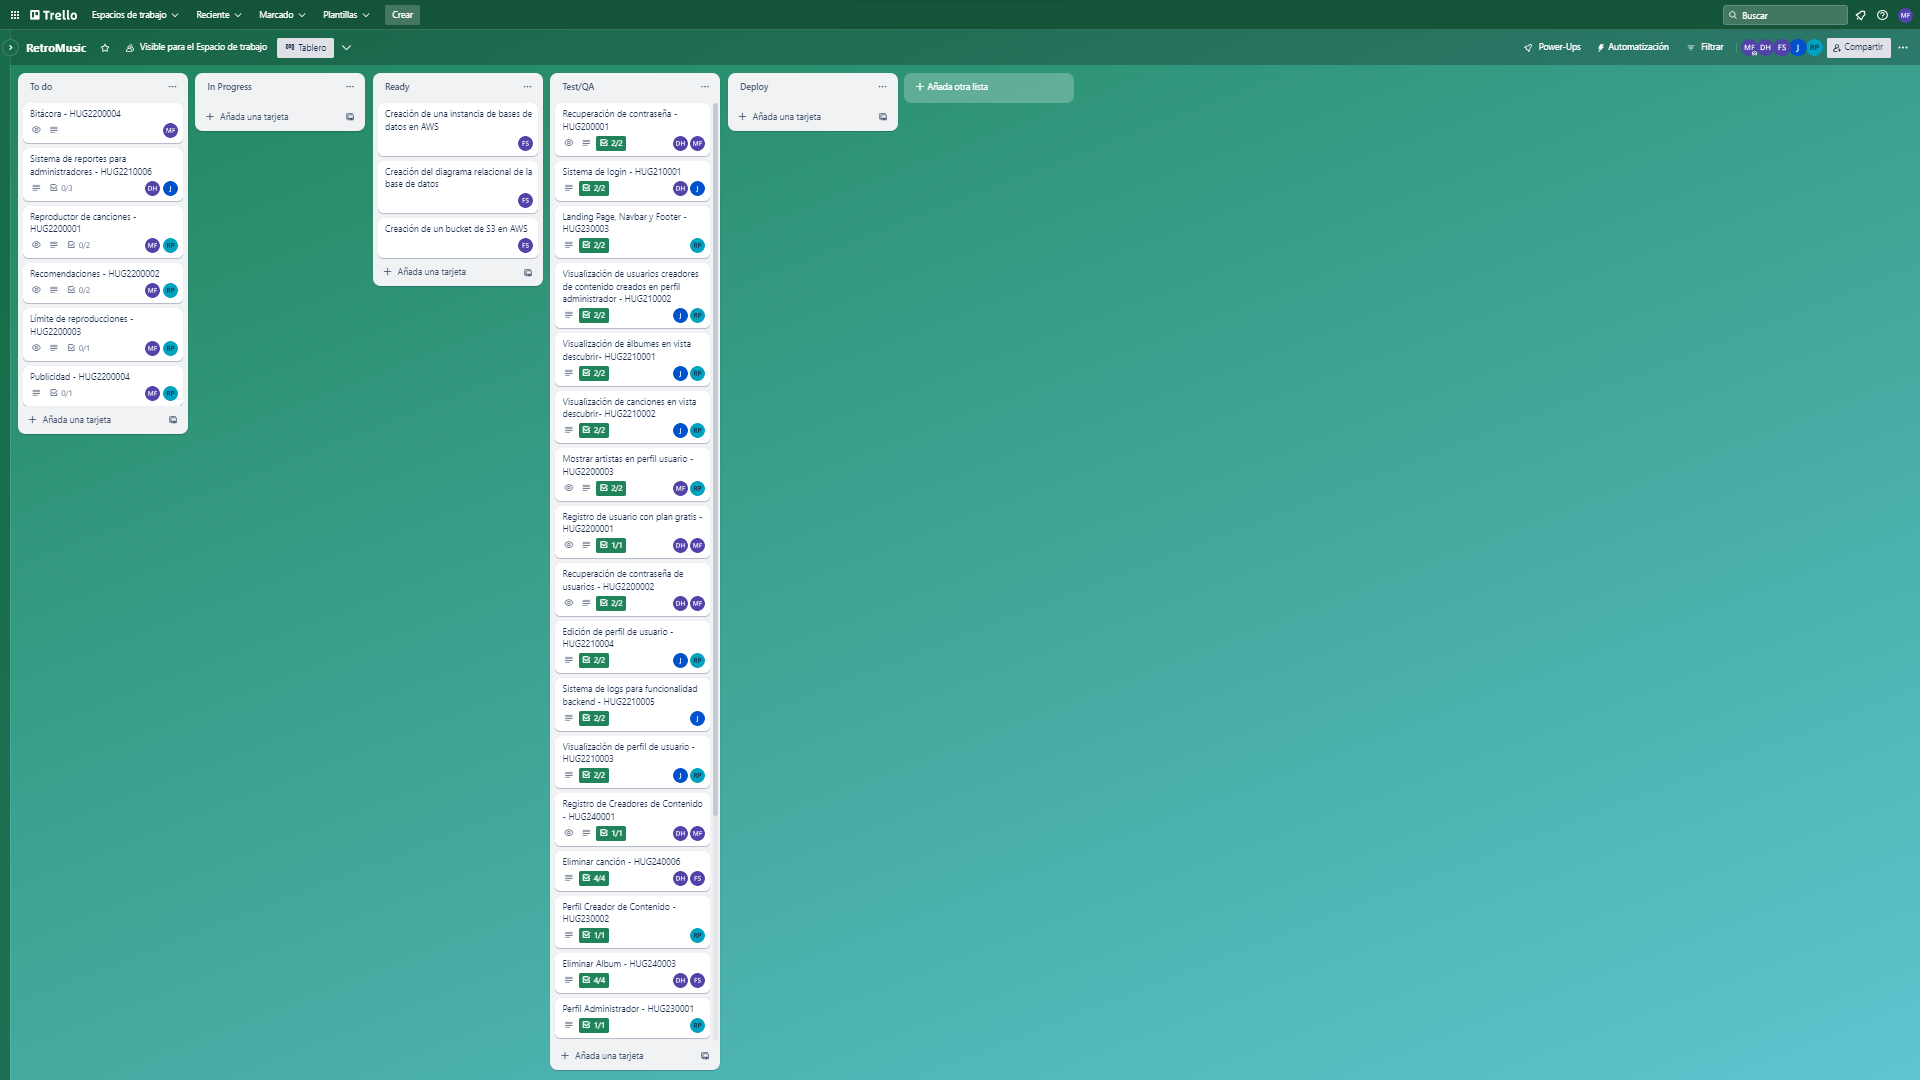
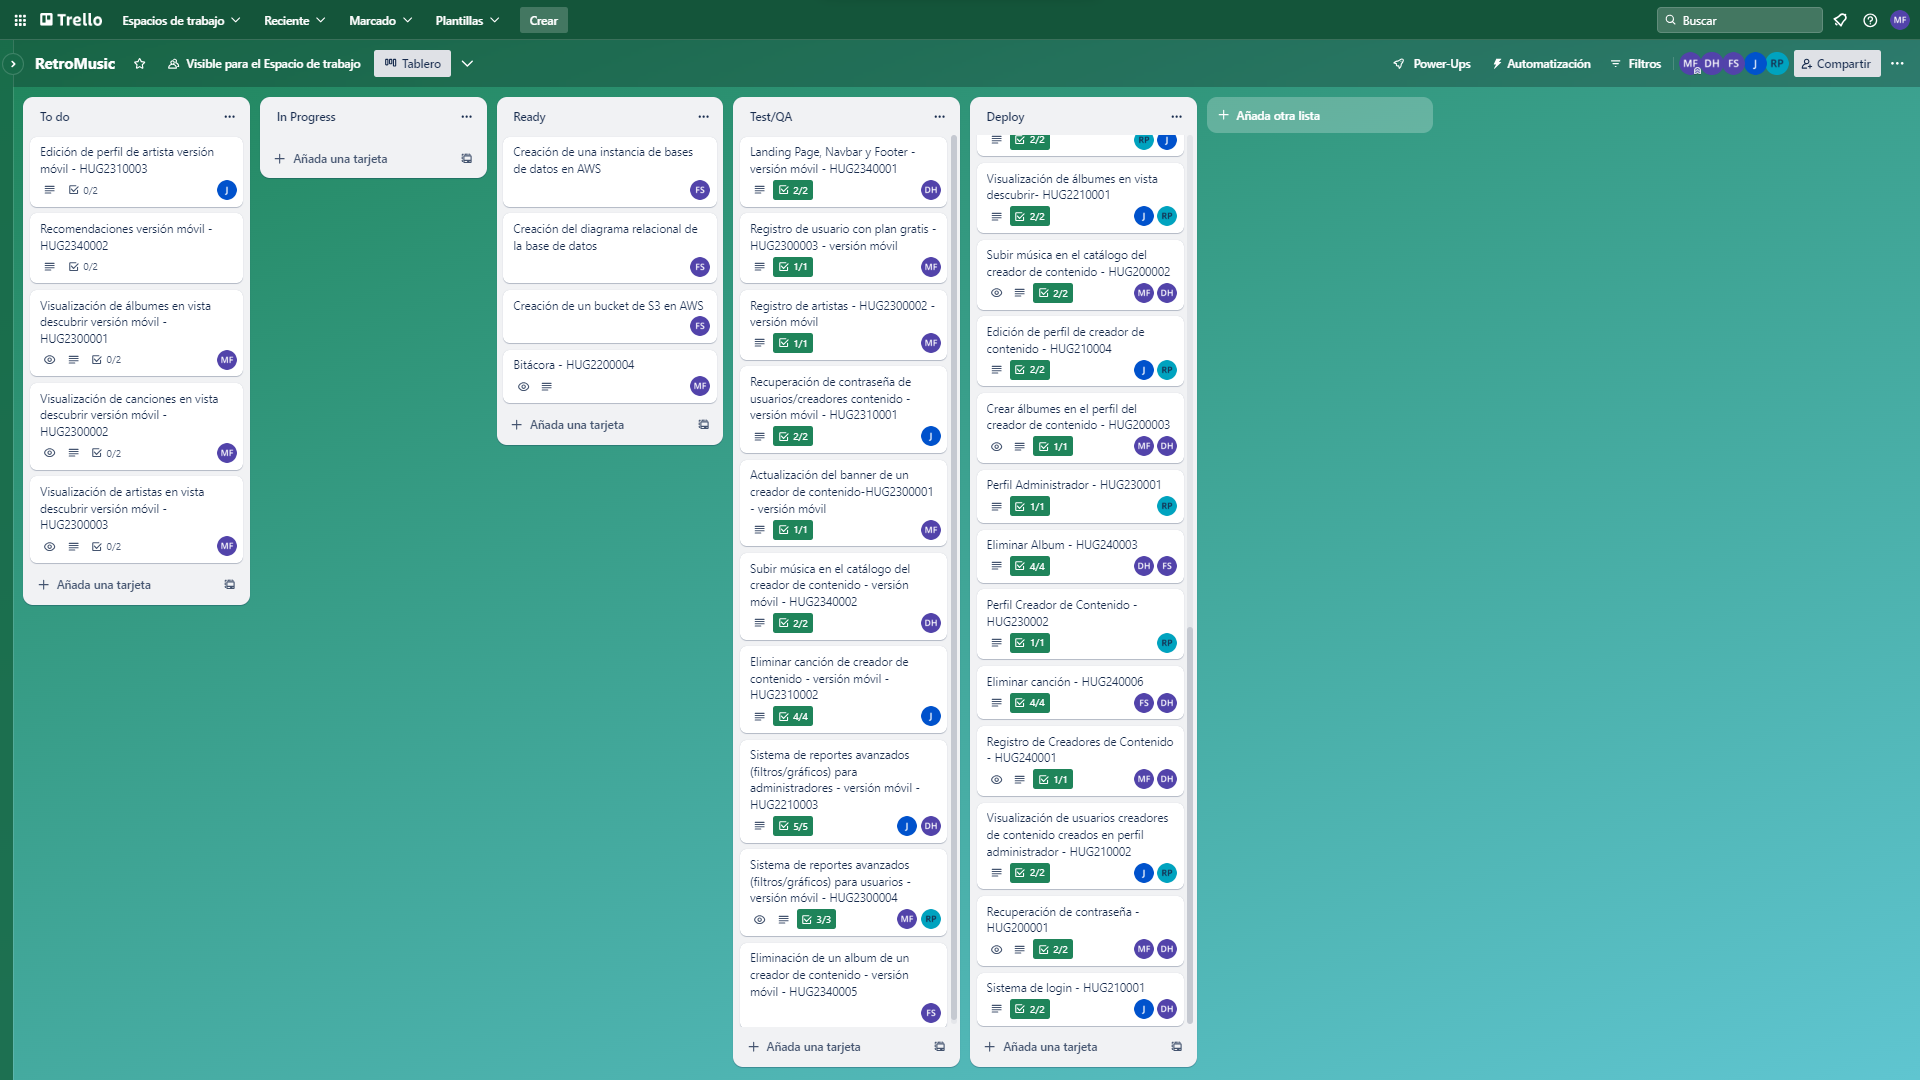
Added sprint reports and cypress documentation
-Added sprint 1 y 2 reports
-Updated architecture design
-Added cypress documentation for user/artist register and banner upload views

diff --git a/documentation/Phase 3/Sprint reports/Sprint 1/Sprint1_report.md b/documentation/Phase 3/Sprint reports/Sprint 1/Sprint1_report.md
@@ -1,82 +1,51 @@
 ![Net Image](banner.jpg "Banner | RetroMusic")
 
-## Reporte Sprint 1 | Fase 2 <img src="https://media.tenor.com/dHk-LfzHrtwAAAAi/linux-computer.gif" alt="drawing" width="30"/>
+## Reporte Sprint 1 | Fase 3 <img src="https://media.tenor.com/dHk-LfzHrtwAAAAi/linux-computer.gif" alt="drawing" width="30"/>
 
 ### _Grabación de Scrum Planning_
-Esta reunión marcó el inicio del primer sprint de la segunda fase del proyecto, donde se discutieron y repartieron las tareas que conlleva dicha propuesta realizada en el primer sprint de la primera fase del mismo, continuando con los roles tomados para cada integrante. Esta realizada el día 28 de Agosto, donde a continuación se muestra su respectiva grabación:
+Esta reunión marcó el inicio del primer sprint de la tercera fase del proyecto, donde se discutieron y repartieron las tareas que conlleva dicha propuesta realizada en el primer sprint de la tercera fase del mismo, continuando con los roles tomados para cada integrante. Esta realizada el día 27 de Septiembre, donde a continuación se muestra su respectiva grabación:
 
-    https://drive.google.com/file/d/1vyGupMsz0c1gDxFXH85bbCnY006qeJvl/view?usp=drive_link
 
 ### _Grabaciones de Daily Scrum_
-Se realizaron reuniones diarias donde se discutían los avances de la fase 2 del proyecto proporcionado, donde se respondían las preguntas: ¿Qué hice hoy?, ¿Que haré mañana?, y se discutieron dificultades para posibles soluciones dentro de las mismas. Las grabaciones inician desde el día 29 de Agosto hasta el 08 de Septiembre en días hábiles, las cuales se presentan a continuación:
+Se realizaron reuniones diarias donde se discutían los avances de la fase 3 del proyecto proporcionado, donde se respondían las preguntas: ¿Qué hice hoy?, ¿Que haré mañana?, y se discutieron dificultades para posibles soluciones dentro de las mismas. Las dailys sprint se desarrollaron desde el 28 de Septiembre hasta el 10 de Octubre, sin embargo las grabaciones inician desde el día 29 de Septiembre hasta el 09 de Octubre en días hábiles, las cuales se presentan a continuación:
 
-- 29 de Agosto
 
-    https://drive.google.com/file/d/1J7Q0GgJsAfh1_SFEPHqpOHNd-_pEs_vE/view?usp=drive_link
+- 29 de Septiembre
 
-- 30 de Agosto
 
-    https://drive.google.com/file/d/1DslnAgqMg19dCpaYf8yuaUQq3DBeW_UM/view?usp=drive_link
+- 02 de Octubre
 
-- 31 de Agosto
 
-    https://drive.google.com/file/d/1x8ippVuBoP6g-S6qascVMbjP-H_K_YPB/view?usp=drive_link
+- 04 de Octubre
 
-- 01 de Septiembre
 
-    https://drive.google.com/file/d/13YjyTEnTwqhB79W3tiIlUkWWBqkYMzC7/view?usp=drive_link
+- 06 de Octubre
 
-- 04 de Septiembre
 
-    https://drive.google.com/file/d/1Wf5WOmmaVOQujfOsjL9ycyO86yf4JIGu/view?usp=drive_link
+- 09 de Octubre
 
-- 05 de Septiembre
-
-    https://drive.google.com/file/d/1UOZXQ4TfmsVBR8F1VB2A_WCQNQ0hAJKJ/view?usp=drive_link
-
-- 06 de Septiembre:
-
-    https://drive.google.com/file/d/1HGMkGu2Dzsnv7bwrrG-2536JUricO5Qt/view?usp=drive_link
-    
-- 07 de Septiembre
-
-    https://drive.google.com/file/d/1xw2mXApg2C1gvD2QHRWWD3xI6HNYA5fP/view?usp=drive_link
-
-- 08 de Septiembre
-
-    https://drive.google.com/file/d/1ZFZVt7y4n2bmVWLeWxksT_TwbwzKZeRs/view?usp=drive_link
 
 ### _Grabación de Scrum Retrospective_
-Esta reunión marcó el fin del primer sprint de la segunda fase del proyecto proporcionado, donde se respondían las preguntas: ¿Qué se hizo bien durante el Sprint?, ¿Qué se hizo mal durante el Sprint? y ¿Qué mejoras se deben implementar para el próximo sprint?, esto realizado por cada integrante del grupo, esta realizada el 10 de Septiembre.
+Esta reunión marcó el fin del primer sprint de la tercera fase del proyecto proporcionado, donde se respondían las preguntas: ¿Qué se hizo bien durante el Sprint?, ¿Qué se hizo mal durante el Sprint? y ¿Qué mejoras se deben implementar para el próximo sprint?, esto realizado por cada integrante del grupo, esta realizada el 11 de Octubre.
 
-    https://drive.google.com/file/d/1ocZylnOXVHXnGO2yHUueGloaQRbo91Xg/view?usp=drive_link
 
 ### _Elementos del Sprint Backlog_
 
 | Nombre | Encargado/s  | Terminado |
-| ----- | ----- | ----- | 
-| Registro usuario plan gratuito | David Maldonado y Marvin Estrada | Si |
-| Recuperación de contraseña de usuario | David Maldonado y Marvin Estrada | Si |
-| Perfil usuario plan gratuito | Rodrigo Porón | Si |
-| Perfil creador de contenido | Rodrigo Porón | Si |
-| Deshabilitar usuario creador de contenido | Rodrigo Porón y Javier Alfaro | Si | 
-| Subir banner de creador de contenido | Rodrigo Porón y Fernando Gómez | Si |
-| Subir música a la plataforma | David Maldonado y Marvin Estrada | Si |
-| Creación de albumes | Rodrigo Porón y Marvin Estrada | Si |
-| Editar perfil creador de contenido | Rodrigo Porón y Javier Alfaro | Si |
-| Eliminar album | David Maldonado y Fernando Gómez | Si |
-| Eliminar canción | David Maldonado y Fernando Gómez | Si |
-| Mostrar albumes en vista usuario | Rodrigo Porón y Javier Alfaro | Si | 
-| Mostrar canciones en vista usuario | Rodrigo Porón y Javier Alfaro | Si | 
-| Mostrar artistas en vista usuario | Rodrigo Porón y Marvin Estrada | Si | 
-| Ver datos del usuario | Rodrigo Porón y Javier Alfaro | Si | 
-| Editar datos del usuario | Rodrigo Porón y Javier Alfaro | Si | 
-| Implementación de logs para el backend para este sprint | Javier Alfaro | Si |
-| Pruebas para funcionalidades | Fernando Gómez | Si |
-| Implementación de bitácora | Fernando Gómez | Si |
-| Diseño nuevo de base de datos para este sprint | Fernando Gómez | Si |
-| Despliegue para el backend para este sprint | Marvin Estrada | Si |
-| Despliegue para el frontend para este sprint | Rodrigo Porón | Si |
+| ------ | ------------ | --------- | 
+| Landing page, navbar y footer | David Maldonado | Si |
+| Registro de usuario y artista | Marvin Estrada | Si |
+| Login de administrador, usuario y artista | Rodrigo Porón | Si |
+| Recuperación de contraseña de usuario | Javier Alfaro | Si |
+| Reportes de administrador | David Maldonado y Javier Alfaro | Si |
+| Reportes de usuario | Rodrigo Porón y Marvin Estrada | Si |
+| Subir banner de artista | Marvin Estrada | Si |
+| Subir música a la plataforma | David Maldonado | Si |
+| Creación de albumes | Rodrigo Porón | Si |
+| Eliminar canción | Javier Alfaro | Si |
+| Eliminar album | Fernando Gómez | Si |
+
+Asimismo se realizaron las pruebas End 2 End sobre cada funcionalidad, dando un total de 12 de las mismas, estas realizadas en el framework cypress, todas estas realizadas en el primer sprint de la tercera fase del proyecto.
 
 ### _Tablero previo al inicio del Sprint_
 ![Before](beforeTable.png)

diff --git a/documentation/Phase 3/Sprint reports/Sprint 2/Sprint2_report.md b/documentation/Phase 3/Sprint reports/Sprint 2/Sprint2_report.md
@@ -3,50 +3,42 @@
 ## Reporte Sprint 2 | Fase 2 <img src="https://media.tenor.com/dHk-LfzHrtwAAAAi/linux-computer.gif" alt="drawing" width="30"/>
 
 ### _Grabación de Scrum Planning_
-Esta reunión marcó el inicio del segundo sprint de la segunda fase del proyecto, donde se discutieron y repartieron las tareas que conlleva dicha propuesta realizada en la primera fase del proyecto, continuando con los roles tomados para cada integrante. Esta realizada el día 11 de Septiembre, donde a continuación se muestra su respectiva grabación:
+Esta reunión marcó el inicio del segundo sprint de la tercera fase del proyecto, donde se discutieron y repartieron las tareas que conlleva dicha propuesta realizada en la primera fase del proyecto, continuando con los roles tomados para cada integrante. Esta realizada el día 12 de Octubre, donde a continuación se muestra su respectiva grabación:
 
-    https://drive.google.com/file/d/10RFKYpHD-e904pEpm6aE918rSVqC7gNK/view?usp=drive_link
 
 ### _Grabaciones de Daily Scrum_
-Se realizaron reuniones diarias donde se discutían los avances de la fase 2 del proyecto proporcionado, donde se respondían las preguntas: ¿Qué hice hoy?, ¿Que haré mañana?, y se discutieron dificultades para posibles soluciones dentro de las mismas. Las grabaciones inician desde el día 12 hasta el 19 de Septiembre en días hábiles, omitiendo el 14 y 15 de Septiembre al ser asueto, las cuales se presentan a continuación:
+Se realizaron reuniones diarias donde se discutían los avances de la fase 3 del proyecto proporcionado, donde se respondían las preguntas: ¿Qué hice hoy?, ¿Que haré mañana?, y se discutieron dificultades para posibles soluciones dentro de las mismas. Las dailys sprint se desarrollaron desde el 13 de Octubre hasta el 20 de Octubre en días hábiles, las cuales se presentan a continuación:
 
-- 12 de Septiembre
 
-    https://drive.google.com/file/d/1NxpAGl-3SbQ-5si8zGIK1X4z88hedvsy/view?usp=drive_link
+- 13 de Octubre
 
-- 13 de Septiembre
 
-    https://drive.google.com/file/d/1XUK4ZTO8urW6hIb405piqR4GG0lpYIjJ/view?usp=drive_link
+- 16 de Octubre
 
-- 18 de Septiembre
 
-    https://drive.google.com/file/d/1wfhGs2zgSJ0TouJkVduXcuJY_fi4AAgy/view?usp=drive_link
+- 18 de Octubre
 
-- 19 de Septiembre
 
-    https://drive.google.com/file/d/1Rnsb8FH6WWwC8hNd6tl0JxxoKY90Y5a8/view?usp=drive_link
+- 19 de Octubre
+
+
+- 20 de Octubre
+
 
 ### _Grabación de Scrum Retrospective_
-Esta reunión marcó el fin del segundo y último sprint de la segunda fase del proyecto proporcionado, donde se respondían las preguntas: ¿Qué se hizo bien durante el Sprint?, ¿Qué se hizo mal durante el Sprint? y ¿Qué mejoras se deben implementar para el próximo sprint?, esto realizado por cada integrante del grupo, esta realizada el 20 de Septiembre.
+Esta reunión marcó el fin del segundo sprint de la tercera fase del proyecto proporcionado, donde se respondían las preguntas: ¿Qué se hizo bien durante el Sprint?, ¿Qué se hizo mal durante el Sprint? y ¿Qué mejoras se deben implementar para el próximo sprint?, esto realizado por cada integrante del grupo, esta realizada el 23 de Octubre.
 
-    https://drive.google.com/file/d/1UCubU7Xil4mt1_yWpMYkSVPE5BSiiYip/view?usp=drive_link
 
 ### _Elementos del Sprint Backlog_
 
 | Nombre | Encargado/s  | Terminado |
 | ------ | ------------ | --------- | 
-| Reporte de top 5 canciones más escuchadas | David Maldonado y Javier Alfaro | Si | 
-| Reporte de top 5 artistas más escuchados | David Maldonado y Javier Alfaro | Si | 
-| Reporte de top 5 albumes más escuchados | David Maldonado y Javier Alfaro | Si | 
-| Reproductor de canciones en el perfil usuario Play/Pausa y Siguiente/Anterior  | David Maldonado y Marvin Estrada | Si |
-| Recomendaciones en la vista descubrir | Rodrigo Porón y Marvin Estrada | Si | 
-| Límite de reproducciones por día (15 reproducciones)  | Rodrigo Porón y Marvin Estrada | Si | 
-| Publicidad | David Maldonado y Marvin Estrada | Si |
-| Implementación de logs para el backend para este sprint | Javier Alfaro | Si |
-| Pruebas para funcionalidades | Fernando Gómez | Si |
-| Diseño nuevo de base de datos para este sprint | Fernando Gómez | Si |
+| Recomendaciones | David Maldonado | Si |
+| Reproductor de música | Rodrigo Porón | Si |
+| Visualización de artistas, álbumes y canciones | Marvin Estrada | Si |
+| Editar información de artista | Javier Alfaro | Si |
+| Límite de reproducciones | Fernando Gómez | Si |
 | Despliegue para el backend para este sprint | Marvin Estrada | Si |
-| Despliegue para el frontend para este sprint | Rodrigo Porón | Si |
 
 ### _Tablero previo al inicio del Sprint_
 ![Before](beforeTable.png)

diff --git a/documentation/Phase 3/Historias de usuario-pruebas/Historias.md b/documentation/Phase 3/Historias de usuario-pruebas/Historias.md
@@ -131,6 +131,11 @@ describe('fill register form', () => {
 
 ```
 
+<img src="./E2E-alexis/cypress-registerUser-good.png"/>
+<img src="./E2E-alexis/cypress-registerUser-bad.png"/>
+<img src="./E2E-alexis/cypress-registerArtist-good.png"/>
+<img src="./E2E-alexis/cypress-registerArtist-bad.png"/>
+
 ---
 ## Recuperación de contraseña de usuarios - HUG2200002 - Puntos de Historia=5 - Prioridad=Baja
 
@@ -442,6 +447,9 @@ describe('fill banner form', () => {
 
 
 ```
+<img src="./E2E-alexis/cypress-banner-good.png" />
+<img src="./E2E-alexis/cypress-banner-bad.png" />
+
 ---
 ## Subir música en vista catálogo-HUG240004 - Puntos de Historia=20 Prioridad = Alta
 
